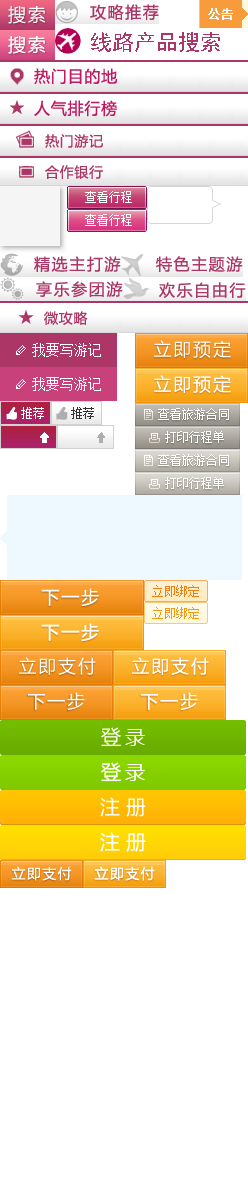
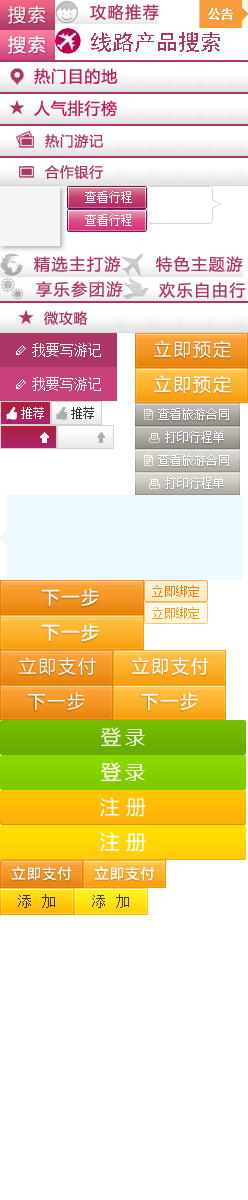
Signed-off-by: toamture <87068928@qq.com>

Changed region(s): [[0.0, 0.74, 0.621, 0.7708]]

diff --git a/demand/styles/center_cyykxx.css b/demand/styles/center_cyykxx.css
@@ -1,0 +1,64 @@
+@charset "utf-8";
+/* CSS Document */
+
+/*通用背景*/
+.center_tjdd_txlxrzl_sub	{ background:url(../images/all_bg.png) no-repeat;}
+
+/*已有游客信息*/
+.center_cyykxx_yyykxx	{ width:748px; margin:20px 0 0 0; display:inline; overflow:hidden; float:left;}
+.center_cyykxx_yyykxx span					{ width:731px; height:26px; margin:0 0 10px 0; display:inline; padding:0 0 0 17px; background:#eeeeee; color:#ff6635; line-height:26px; overflow:hidden; float:left;}
+
+/*游客表格*/
+.center_youke								{ border-collapse:collapse;}
+.center_youke th							{ background:#eeeeee; border:1px solid #e1e1e1; font-weight:normal; color:#666666;}
+.center_youke td							{ padding:4px 0; border:1px solid #e1e1e1; color:#333333; line-height:18px;}
+.center_youke td em							{ color:#ff6600;}
+.center_youke td h1							{ text-align:left;}
+.center_youke td a							{ color:#30527f;}
+.center_youke td a:hover					{ color:#ac3666; text-decoration:underline;}
+.center_youke td h1 a:hover					{ color:#ff6633; text-decoration:underline;}
+
+/*增加游客*/
+.tjdd_txlxrzl		{ width:748px; margin:20px 0 0 0; display:inline; padding:0 0 26px 0; overflow:hidden; float:left;}
+.tjdd_txlxrzl p								{ width:731px; height:26px; padding:0 0 0 17px; background:#eeeeee; color:#ff6635; line-height:26px; overflow:hidden; float:left;}
+.tjdd_txlxrzl span							{ width:731px; overflow:hidden; float:left;}
+.tjdd_txlxrzl span em						{ width:731px; overflow:hidden; float:left;}
+.tjdd_txlxrzl span em ul					{ width:731px; padding:5px 0 0 0; overflow:hidden; float:left;}
+.tjdd_txlxrzl span em ul li					{ width:365px; height:27px; margin:14px 0 0 0; display:inline; overflow:hidden; float:left;}
+.tjdd_txlxrzl span em ul li .tjdd_label		{ width:69px; height:27px; text-align:right; color:#333333; line-height:26px; _line-height:27px; overflow:hidden; float:left;}
+.tjdd_txlxrzl span em ul li .tjdd_text		{ width:153px; height:15px; padding:5px 3px; background:#FFF; border:1px solid #b3c3dd; overflow:hidden; float:left;}
+.tjdd_txlxrzl span em ul li u				{ *width:159px; *height:23px; *padding:2px 0 0 0; *background:#fff; *border:1px solid #b3c3dd; overflow:hidden; float:left;}
+.tjdd_txlxrzl span em ul li strong			{ *width:159px; *background:#fff; *overflow:hidden; *float:left;}
+.tjdd_txlxrzl span em ul li select			{ width:161px; height:27px; padding:3px 4px 3px 0; *margin:-1px; display:inline; background:#FFF; border:1px solid #b3c3dd; line-height:22px; float:left;}
+.tjdd_txlxrzl span em ul li b				{ height:27px; padding:0 0 0 5px; font-weight:normal; color:#ff0000; line-height:26px; _line-height:27px; overflow:hidden; float:left;}
+.tjdd_txlxrzl span em ul li h3				{ height:27px; margin:0 0 0 5px; padding:0 10px 0 24px; background:#fddfdf url(../images/tjdd_notice_bg.png) no-repeat 3px 6px; color:#333333; line-height:26px; _line-height:27px; overflow:hidden; float:left; display:none;}
+.tjdd_txlxrzl span em ol					{ width:731px; overflow:hidden; float:left;}
+.tjdd_txlxrzl span em ol li					{ width:355px; height:27px; margin:14px 0 0 0; display:inline; padding:0 0 0 10px; line-height:26px; _line-height:27px; overflow:hidden; float:left;}
+.tjdd_txlxrzl span em ol li big				{ height:27px; margin:0 10px 0 0; display:inline; font-size:12px; font-weight:normal; overflow:hidden; float:left;}
+.tjdd_txlxrzl span em ol li input			{ height:27px; margin:0 5px 0 0; display:inline; overflow:hidden; float:left;}
+.tjdd_txlxrzl span em ol li label			{ height:27px; margin:0 35px 0 0; display:inline; line-height:28px; overflow:hidden; float:left;}
+.tjdd_txlxrzl span em ol li u				{ *width:159px; *height:23px; *padding:2px 0 0 0; *background:#fff; *border:1px solid #b3c3dd; overflow:hidden; float:left;}
+.tjdd_txlxrzl span em ol li strong			{ *width:159px; *background:#fff; *overflow:hidden; *float:left;}
+.tjdd_txlxrzl span em ol li select			{ width:161px; height:27px; padding:3px 4px 3px 0; *margin:-1px; display:inline; background:#FFF; border:1px solid #b3c3dd; line-height:22px; float:left;}
+.tjdd_txlxrzl span em ol li b				{ height:27px; padding:0 0 0 5px; font-weight:normal; color:#ff0000; line-height:26px; _line-height:27px; overflow:hidden; float:left;}
+.tjdd_txlxrzl span em ol li h3				{ height:27px; margin:0 0 0 5px; padding:0 10px 0 24px; background:#fddfdf url(../images/tjdd_notice_bg.png) no-repeat 3px 6px; color:#333333; line-height:26px; _line-height:27px; overflow:hidden; float:left; display:none;}
+.tjdd_txlxrzl span i						{ width:704px; margin:10px 0 0 10px; display:inline; padding:0 0 6px 0; border:1px solid #ffcb99; overflow:hidden; float:left;}
+.tjdd_txlxrzl span i ul						{ width:333px; padding:10px 0 0 0; overflow:hidden; float:left;}
+.tjdd_txlxrzl span i ul li					{ width:333px; height:27px; margin:0 0 14px 0; display:inline; overflow:hidden; float:left;}
+.tjdd_txlxrzl span i ul li .tjdd_label		{ width:89px; height:27px; text-align:right; color:#333333; line-height:26px; _line-height:27px; overflow:hidden; float:left;}
+.tjdd_txlxrzl span i ul li .tjdd_text		{ width:210px; height:15px; padding:5px 3px; background:#FFF; border:1px solid #b3c3dd; overflow:hidden; float:left;}
+.tjdd_select_long							{ *width:216px; *height:23px; *padding:2px 0 0 0; *background:#fff; *border:1px solid #b3c3dd; overflow:hidden; float:left;}
+.tjdd_select_long strong					{ *width:216px; *background:#fff; *overflow:hidden; *float:left;}
+.tjdd_select_long select					{ width:218px; height:27px; padding:3px 4px 3px 0; *margin:-1px; display:inline; background:#FFF; border:1px solid #b3c3dd; line-height:22px; float:left;}
+.tjdd_select_short_f						{ *width:59px; *height:23px; margin:0 7px 0 2px; display:inline; *padding:2px 0 0 0; *background:#fff; *border:1px solid #b3c3dd; overflow:hidden; float:left;}
+.tjdd_select_short_f strong					{ *width:59px; *background:#fff; *overflow:hidden; *float:left;}
+.tjdd_select_short_f select					{ width:61px; height:27px; padding:3px 4px 3px 0; *margin:-1px; display:inline; background:#FFF; border:1px solid #b3c3dd; line-height:22px; float:left;}
+.tjdd_select_short_s						{ *width:85px; *height:23px; margin:0 7px 0 0; display:inline; *padding:2px 0 0 0; *background:#fff; *border:1px solid #b3c3dd; overflow:hidden; float:left;}
+.tjdd_select_short_s strong					{ *width:85px; *background:#fff; *overflow:hidden; *float:left;}
+.tjdd_select_short_s select					{ width:87px; height:27px; padding:3px 4px 3px 0; *margin:-1px; display:inline; background:#FFF; border:1px solid #b3c3dd; line-height:22px; float:left;}
+.tjdd_select_short_t						{ *width:45px; *height:23px; *padding:2px 0 0 0; *background:#fff; *border:1px solid #b3c3dd; overflow:hidden; float:left;}
+.tjdd_select_short_t strong					{ *width:45px; *background:#fff; *overflow:hidden; *float:left;}
+.tjdd_select_short_t select					{ width:47px; height:27px; padding:3px 4px 3px 0; *margin:-1px; display:inline; background:#FFF; border:1px solid #b3c3dd; line-height:22px; float:left;}
+.tjdd_txlxrzl span i b						{ width:255px; height:178px; margin:22px 25px 0 0; display:inline; background:url(../images/tjdd_certificate_pic_01.jpg) no-repeat; overflow:hidden; float:right;}
+.center_tjdd_txlxrzl_sub					{ width:74px; height:27px; margin:20px 0 0 12px; display:inline; background-position:0 -888px; overflow:hidden; float:left;}
+.center_tjdd_txlxrzl_sub:hover				{ background-position:-74px -888px;}
